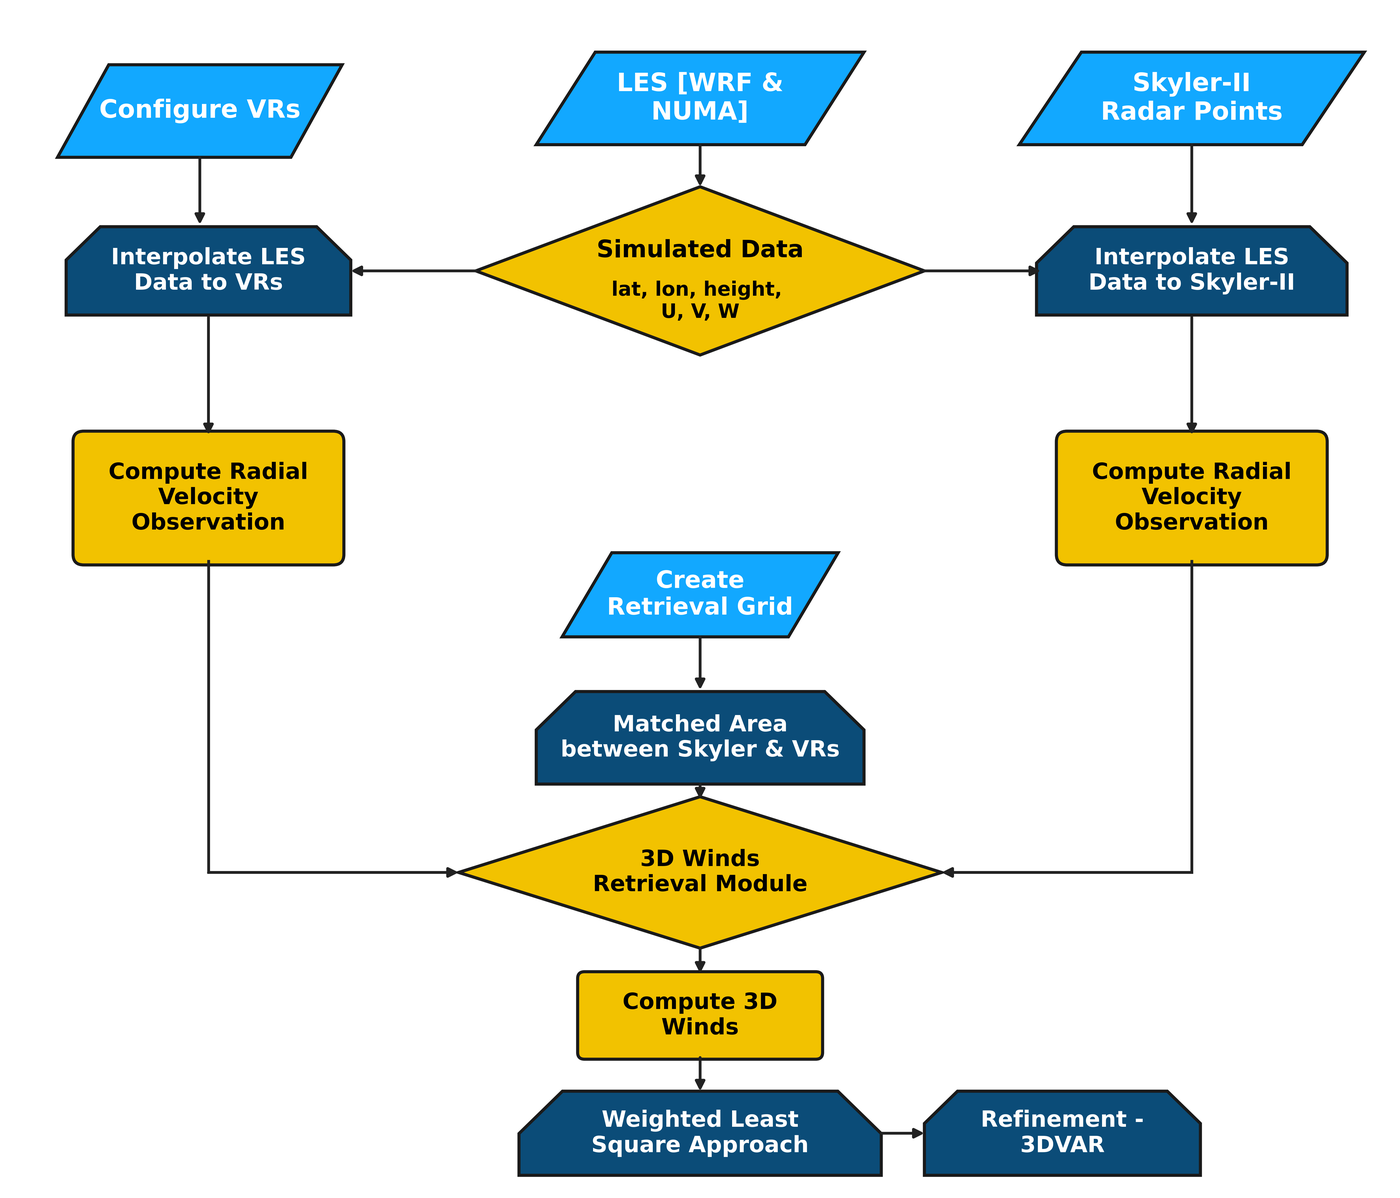
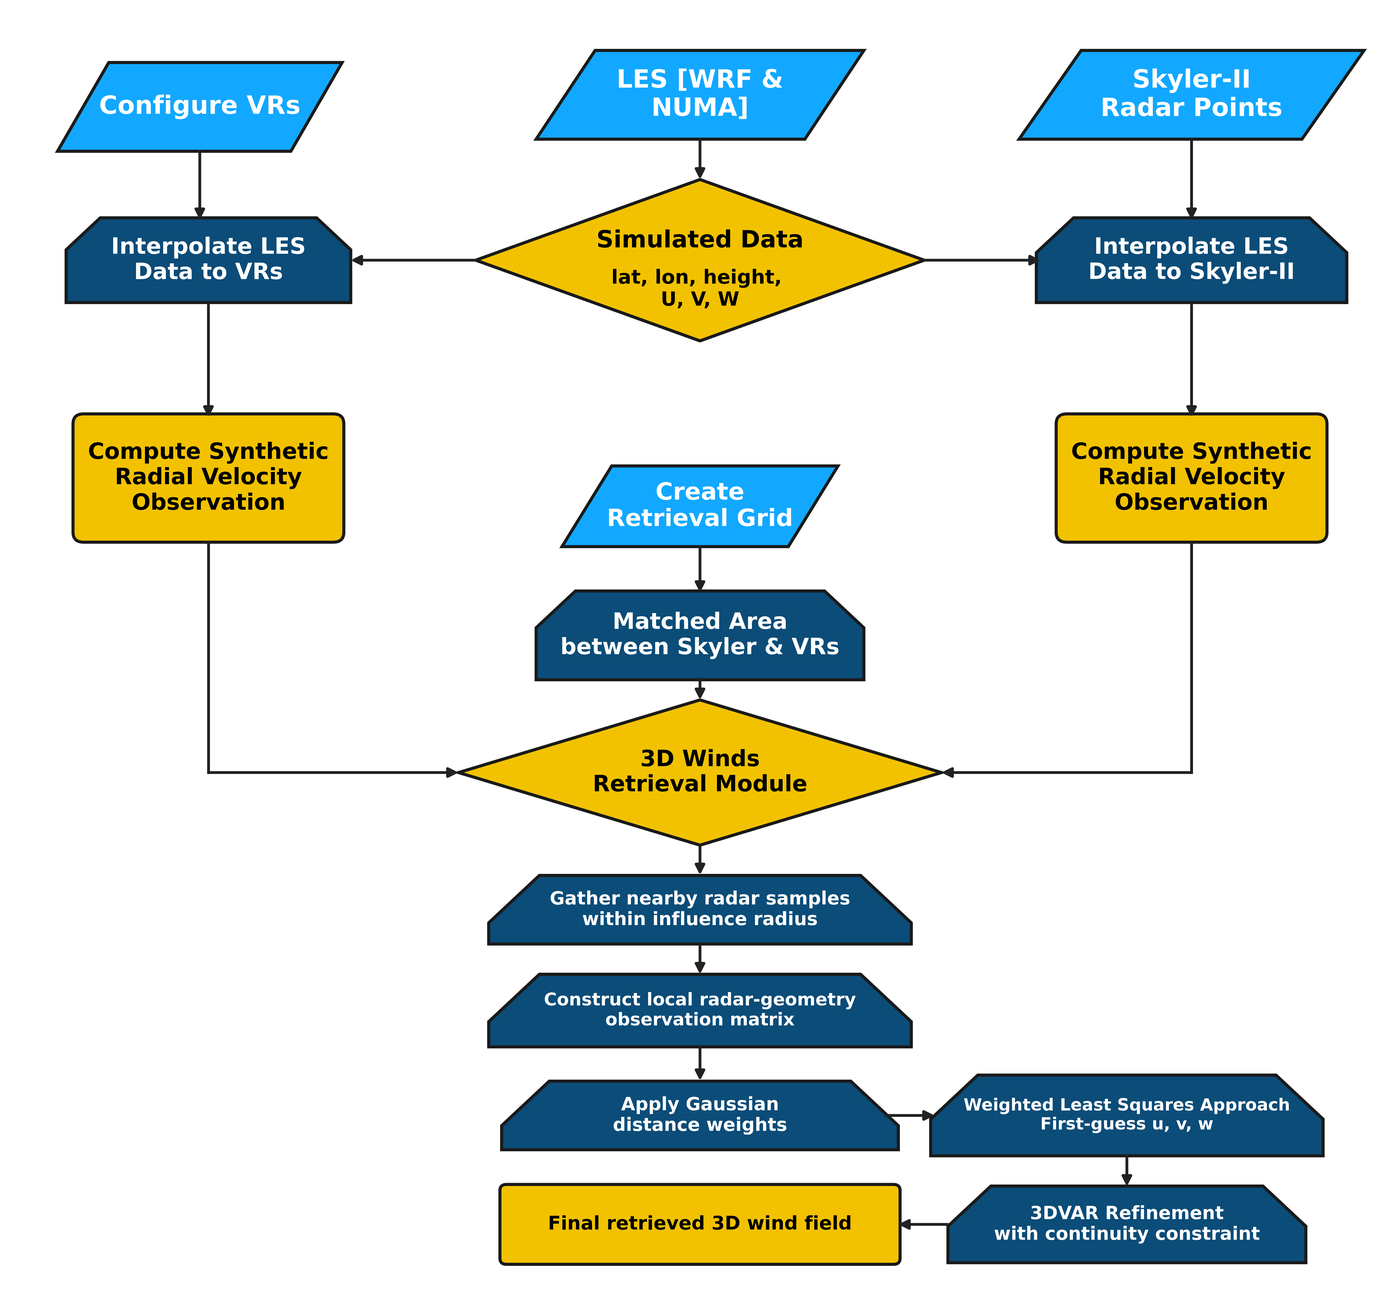
Research page: updated radar retrieval flowchart and 4-km domain map
Claude-Session: https://claude.ai/code/session_0184kb8wZTFAvannggtnALsh

diff --git a/research.html b/research.html
@@ -88,7 +88,7 @@
               <div class="tags"><span>Data assimilation</span><span>Real-time forecasting</span><span>Workflow automation</span></div>
             </div>
             <div class="fig-stack"><figure><img src="images/hu-forecast-workflow.jpg" alt="Real-time forecasting workflow." loading="lazy"><figcaption>Real-time forecasting workflow.</figcaption></figure>
-<figure><img src="images/hu-4km-domain.jpg" alt="4-km forecasting system domain." loading="lazy"><figcaption>4-km forecasting system domain.</figcaption></figure></div>
+<figure><img src="images/hu-4km-domain.jpg" alt="4-km forecasting system domain with the Skyler radar site" loading="lazy"><figcaption>4-km forecasting system domain, with the Skyler radar site.</figcaption></figure></div>
           </div>
         </article>
         <article class="card">
